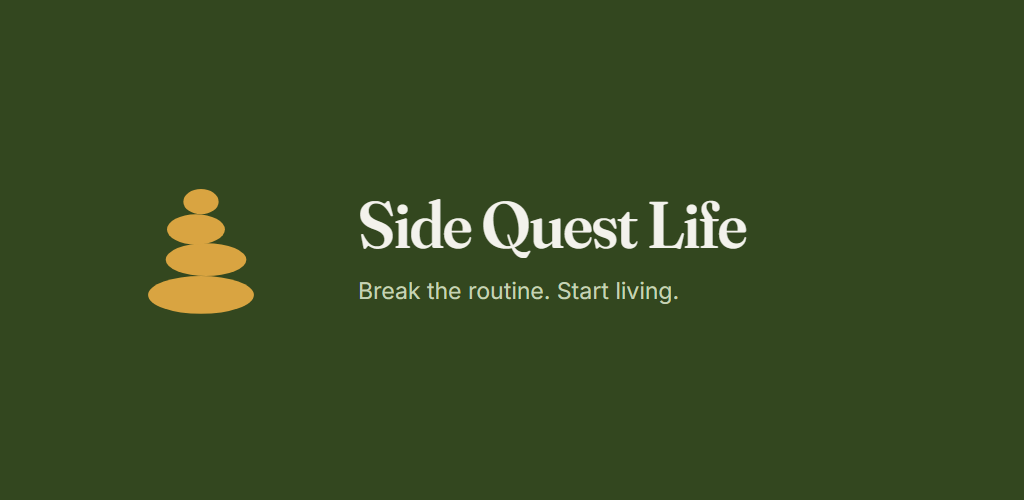
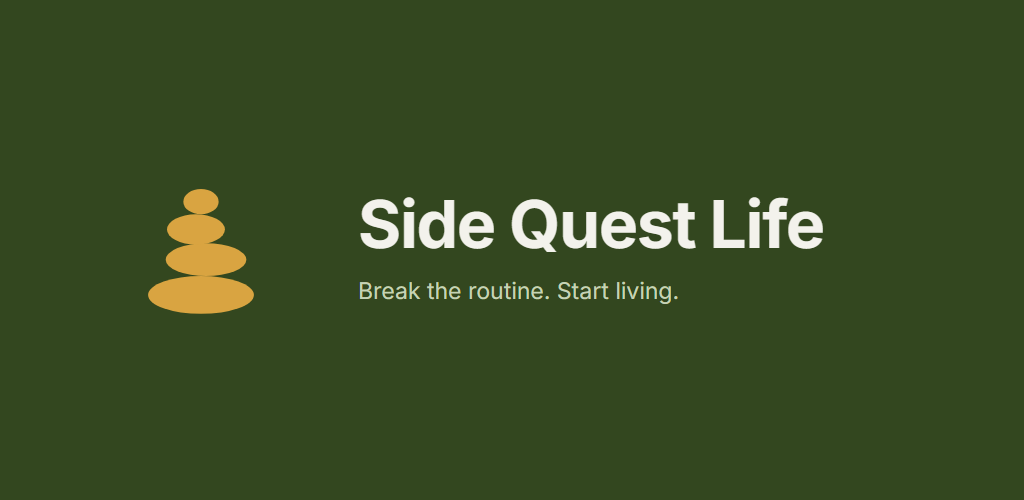
Play feature graphic: wordmark in Inter, like the app (task 45)

Changed region(s): [[0.3438, 0.39, 0.8125, 0.51]]

diff --git a/docs/feedback/round-2-tasklist.md b/docs/feedback/round-2-tasklist.md
@@ -759,12 +759,12 @@ it ships via OTA, SQL, the web deploy, or is not code at all.
 | 42 | Play Console 2026-10-12: "app uses deprecated edge-to-edge APIs" (Android 15). No deadline. Expected to come from React Native / libraries, not our code — **inferred**: check the call list under "Další informace"; if it names only `com.facebook.react`, `com.swmansion` or `expo.modules`, it goes away with an SDK upgrade and needs nothing from us | No |
 | 43 | Play Console 2026-10-12: "remove orientation restrictions for large screens" — `orientation: 'portrait'` in `app.config.ts`. Android 16 ignores it on tablets and foldables, so there the app will rotate. No deadline, app is phone-only; leave as is, look at a landscape layout only if tablet users appear | No |
 | 44 | ~~Current Play listing screenshots~~ — **merged into #45**, 2026-10-15 (details there) | — |
-| 45 | **Google Play store listing — all of it** (Standa, 2026-10-12 and 2026-10-15). (a) **Description: ✅ draft ready 2026-10-15** in `docs/store-listing-copy.md` — short (75/80) and full (1,252/4,000); the old one offered "an evening without a screen" / "put the phone down", against rule #1. Standa reviews and pastes it into Play Console. (b) **Screenshots** (was #44): web capture of 2026-10-12 in `store-assets/play/screenshots/` — usable 01 welcome, 03 Explore, 04 Journey; 02 (onboarding, "Next" disabled), 05 (empty Memories) and 06 (account settings) are not. Standa shoots Memories and Progress on the phone from an account with real memories and photos (ideally all screens — real status bar and font); crop to Play's ≤ 2:1 (a 1080×2400 shot is 2.22:1). (c) **Feature graphic** (was #28): the 1024×500 banner at the top of the listing, `store-assets/play/feature-graphic/feature-graphic.png`, was generated by `scripts/make-feature-graphic.cjs` with the wordmark in **Fraunces** — the app itself is Inter only since R2-20, the banner never was regenerated. Regenerate it in Inter | No |
+| 45 | **Google Play store listing — all of it** (Standa, 2026-10-12 and 2026-10-15). (a) **Description: ✅ draft ready 2026-10-15** in `docs/store-listing-copy.md` — short (75/80) and full (1,252/4,000); the old one offered "an evening without a screen" / "put the phone down", against rule #1. Standa reviews and pastes it into Play Console. (b) **Screenshots** (was #44): web capture of 2026-10-12 in `store-assets/play/screenshots/` — usable 01 welcome, 03 Explore, 04 Journey; 02 (onboarding, "Next" disabled), 05 (empty Memories) and 06 (account settings) are not. Standa shoots Memories and Progress on the phone from an account with real memories and photos (ideally all screens — real status bar and font); crop to Play's ≤ 2:1 (a 1080×2400 shot is 2.22:1). (c) **Feature graphic** (was #28): the 1024×500 banner at the top of the listing, `store-assets/play/feature-graphic/feature-graphic.png`, was generated by `scripts/make-feature-graphic.cjs` with the wordmark in **Fraunces** — the app itself is Inter only since R2-20, the banner never was regenerated. ✅ **Regenerated in Inter Bold 2026-10-15** (same layout and colours) — Standa uploads it in Play Console with the rest | No |
 | 46 | **Round 2c** (verbatim: [`round-2c-raw-notes.md`](round-2c-raw-notes.md)) · **The Explore panel should show only quests in motion** (Standa, 2026-10-12: people don't know where to find their active quests; the recommended ones belong in Journey, highlighted; the panel as it is is confusing). Today the panel repeats Journey's offer (top three + "Discover more"). Proposal: the panel lists what you have started in that category, and the suggestions live in Journey. Also confusing today: the header says "Adventure · 10 quests" — it counts the whole category in the catalogue (`app/(tabs)/explore.tsx` `selectedQuestCount`), while the five-per-category rule offers at most five. Ties into the parked 2b-6 ("what is Explore for") — decide together | No — OTA |
 | 47 | ✅ **Fixed 2026-10-12** — after "Pause this quest" the app opens the new quest, as "Start now" does. Verified in the web build: three quests going, a fourth started, one paused → lands on the fourth's run screen with it active. The "maybe it never starts" suspicion below did not reproduce. **"Pause this quest" in the "path is full" dialog doesn't take you to the new quest** — tester (chat, 2026-10-12: *"ten novy quest co jsem chtela zacit musim jit hledat do rozdelanych questu"*) and Standa twice the same day (*"po let it wait se nezapne novy quest jen se to prohodí"*; *"pausnul jsem jiný abych začal tento a on zmizel"*). In code, `onLetWait` (`components/quests/useQuestActions.ts:158`) pauses the chosen quest and then calls `runActivate(nextPending)` **without the navigation target**, whereas "Start now" passes `/quest/run/<id>` — so even when the start succeeds, the dialog just closes and the new quest disappears from Journey. **Inferred, repro first:** Standa's 16:24 Progress shows the quest he wanted (Swim in wild water) under "Pick up where you left off", i.e. paused, not active — so the start may not happen at all. Fix: open the new quest after the pause, and if it cannot start, say why | No — OTA |
 | 48 | **Journey shows six quests where the rule says five** (Eva's Instagram story, 2026-10-12: Nature, "2 quests open to you here", then four "Liked" + two open). Liked quests sit above the five and take no slot — that was the R2-05 decision — so the cards can exceed five, the count line counts only the open ones, and every like opens one more quest: liking is a way round "the rest is earned". Possibly also the 2b finding that a quest **paused before any step reads as "Liked"** (both write `saved_for_later`), so some of her four may be pauses. Needs Standa's call: do liked quests count inside the five? | No — OTA |
 | 49 | **No limit on paused quests** (Standa, 2026-10-12: *"Jakto že tam mám tolik rozdělanejch questů, když můžu mít aktivní jen 3"*). His Progress lists at least eleven under "Pick up where you left off". `MAX_ACTIVE_QUESTS = 3` (`src/features/quests/questHelpers.ts:9`) counts only `active`; pausing is unlimited, and every "Pause this quest" in the full-path dialog adds one. So the cap of three means little, and paused quests also take quests out of the Journey offer (they count as taken) — Standa's Adventure showed "You have taken on everything here" with five Adventure quests paused at 0 steps. Needs a call: cap paused quests, let a paused quest with no step done go back to the offer, or show active and paused as separate, clearly labelled groups | No — OTA |
-| 50 | ✅ **Fixed 2026-10-12** — every `alertCompat` / `alertTwoChoice` call (and the five direct `Alert.alert` calls in onboarding and the photo step) now shows an in-app dialog in the app's colours and type (`components/ui/AppDialogHost.tsx`, `stores/dialog.ts`); titles "Error", "Could not update", "Cannot add" and the quest-flow messages reworded. Verified in the web build ("Leave this quest?"). Not reworded yet: sign-in / account screens, and messages that pass a raw error text through. **The app's messages look like system errors** (Standa, 2026-10-12: *"Hlášky vypadají jako systémový errory"*). Every message goes through the native alert (`alertCompat` / `Alert.alert`): 54 calls in 12 files — "Could not update", "Already started", "Cannot add"… Replace with an in-app dialog/toast in the app's own style and gentler copy; start with the quest flows (`useQuestActions.ts`) | No — OTA |
+| 50 | ✅ **Fixed 2026-10-12** — every `alertCompat` / `alertTwoChoice` call (and the five direct `Alert.alert` calls in onboarding and the photo step) now shows an in-app dialog in the app's colours and type (`components/ui/AppDialogHost.tsx`, `stores/dialog.ts`); titles "Error", "Could not update", "Cannot add" and the quest-flow messages reworded. Verified in the web build ("Leave this quest?"). **Second pass 2026-10-15:** no screen shows technical text any more — `lib/userFacingError.ts` turns any failure into "No connection. Try again when you have signal." or a plain sentence per action, and only messages we wrote ourselves (`UserFacingError`) pass through. Covers the quest and memory stores (error banners), every dialog that showed `e.message`, and sign-in: offline it used to show a paragraph about EXPO_PUBLIC_SUPABASE_URL and restarting Expo. Titles "Auth error", "Missing fields", "Could not continue" reworded. **The app's messages look like system errors** (Standa, 2026-10-12: *"Hlášky vypadají jako systémový errory"*). Every message goes through the native alert (`alertCompat` / `Alert.alert`): 54 calls in 12 files — "Could not update", "Already started", "Cannot add"… Replace with an in-app dialog/toast in the app's own style and gentler copy; start with the quest flows (`useQuestActions.ts`) | No — OTA |
 | 51 | ✅ **Fixed 2026-10-12** — notifications, Edit preferences, Sign out, the legal links and Delete account sit behind a folded "Settings" row on the account card; the guest "Keep what you have done" prompt stays visible. Verified in the web build (folds and unfolds). **Notification settings are in the way on Progress** (Standa, 2026-10-12: *"možná to dát spíš pod drop down to nastavení"*). Today the top of Progress is the account card with Notifications, Edit preferences, Sign out, the legal links and Delete account — before anything you have done (the screen's subtitle is "Everything you have finished"). Move the settings behind a collapsed "Settings" row (or a gear icon) and lead with progress | No — OTA |
 | 52 | **"Pick up where you left off" is a long undifferentiated list** — eleven-plus paused cards, most at 0 steps, all with the same "Resume", nothing to say which ones matter (Standa's 16:24 / 12:39 screenshots). Likely resolved by 46 + 49; listed so it isn't lost | No — OTA |
 | 53 | **Roadmap: a notification that brings people back** (Standa, 2026-10-12, from a competitor). A competing app called **SideQuest** sends a daily 08:00 push, "Today's Mini Quest ⚡" with one tiny quest in the text. Ours only notify about timers and planned quest days ("Timers and quest days"). Idea: an occasional push that offers one concrete quest from your open five. **Tension to decide, not to slip past:** AGENTS.md rules out "endless notifications" and instant-reward loops, and the mentor's line is to push people to *do*. A gentle version fits — opt-in or off by default, at most a few a week, a real quest rather than "come back", silent after you ignore a few — a daily ping does not. Also worth a look: a competitor with nearly our name (`BRANDING.md` §1 — name confirmed as Side Quest Life) | No — OTA (local notifications already ship) — **inferred**, check that scheduling repeats needs no new permission |
